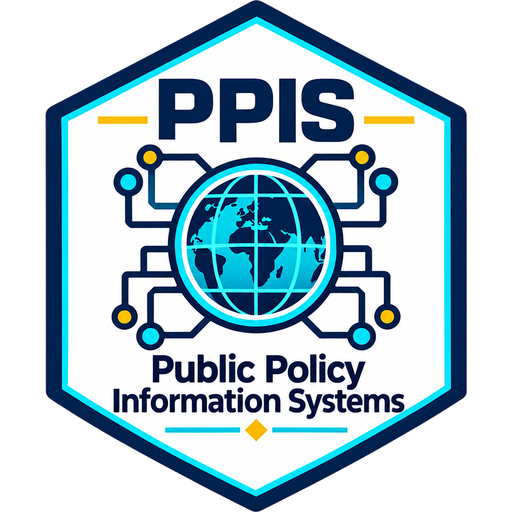
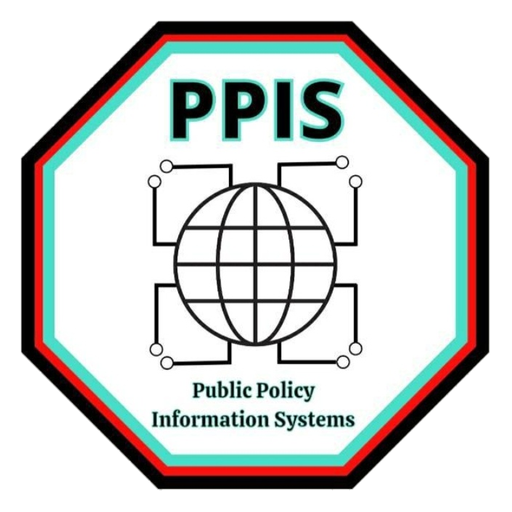
تغيير لوجو PPIS وايقونات الويب اب + تحديث كاش الخدمة

diff --git a/sw.js b/sw.js
@@ -1,4 +1,4 @@
-const C="hub-v16",SHELL=["./","style.css","ui.js","fx.js","logo.png","icon-192.png","manifest.webmanifest"];
+const C="hub-v17",SHELL=["./","style.css","ui.js","fx.js","logo.png","icon-192.png","manifest.webmanifest"];
 self.addEventListener("install",e=>{e.waitUntil(caches.open(C).then(c=>c.addAll(SHELL)));self.skipWaiting()});
 self.addEventListener("activate",e=>e.waitUntil(clients.claim()));
 self.addEventListener("fetch",e=>{const r=e.request;if(r.method!=="GET")return;const u=new URL(r.url);
